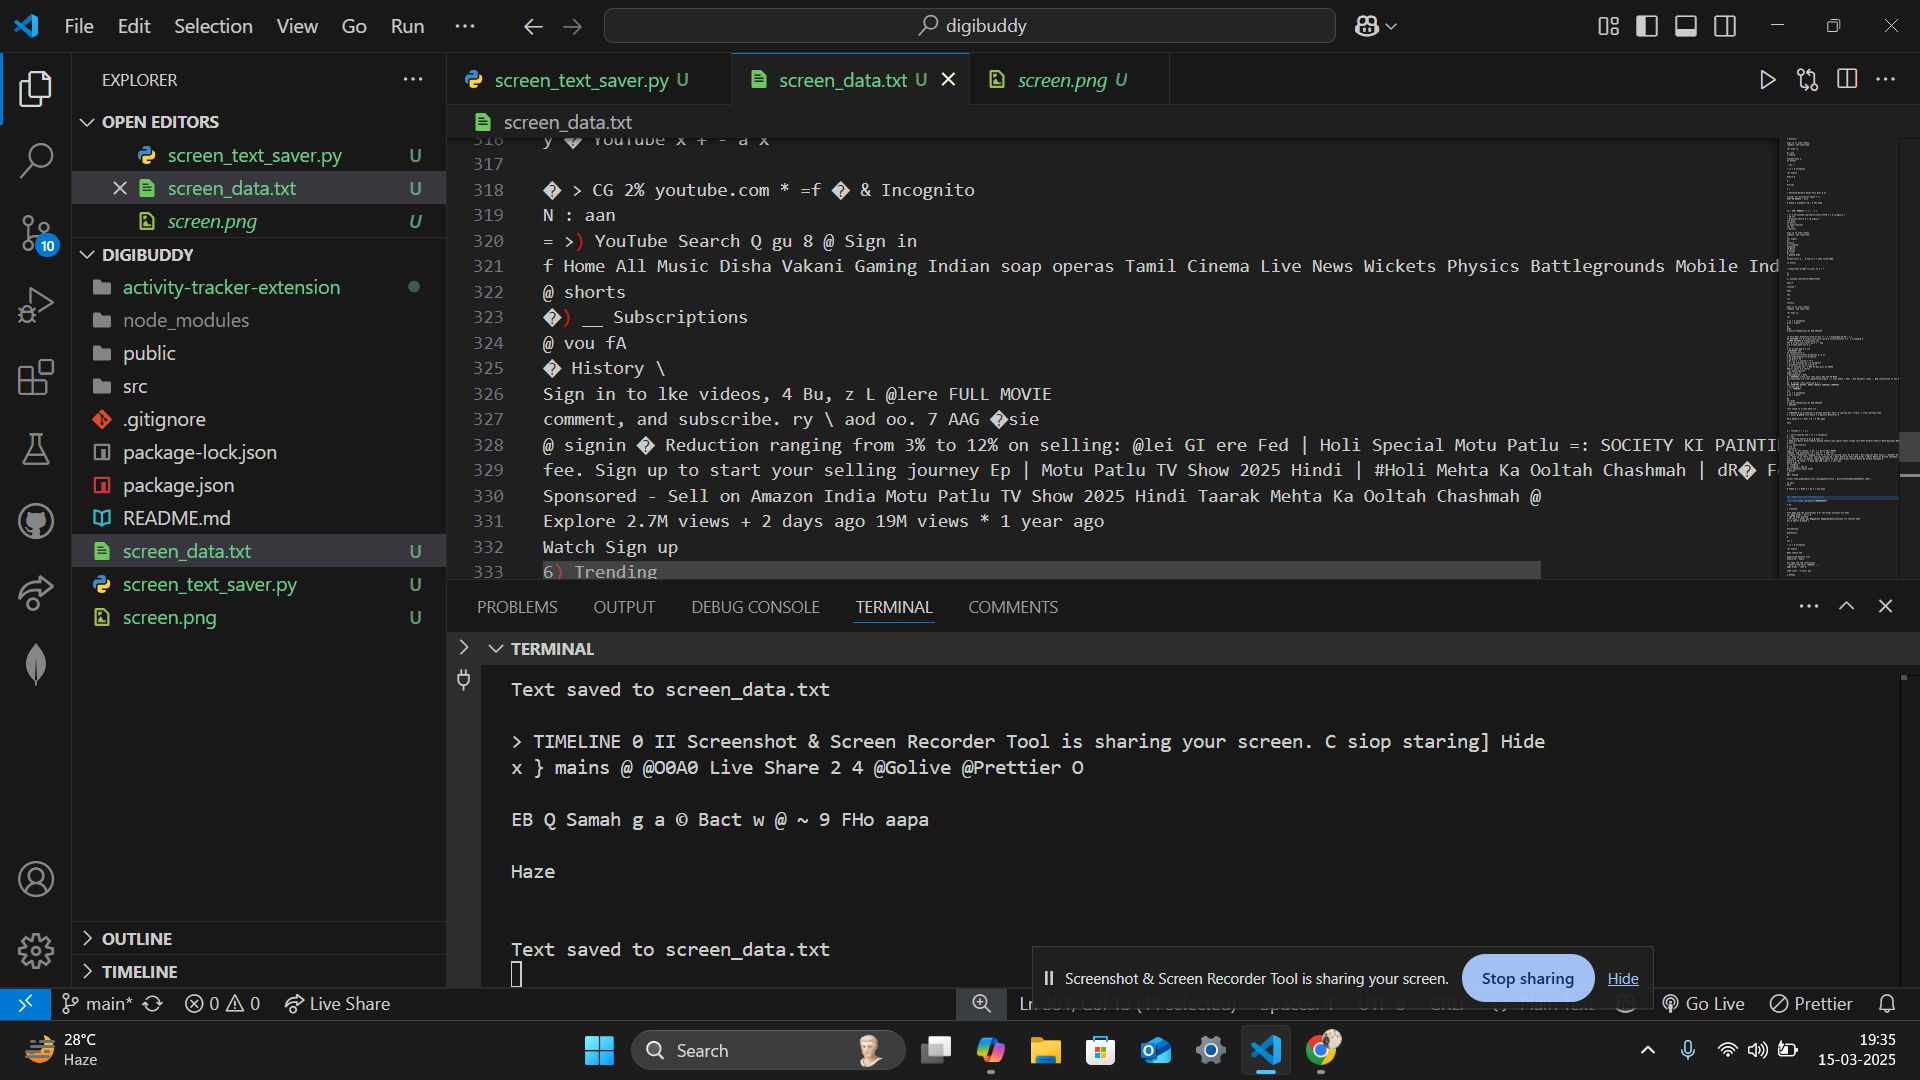
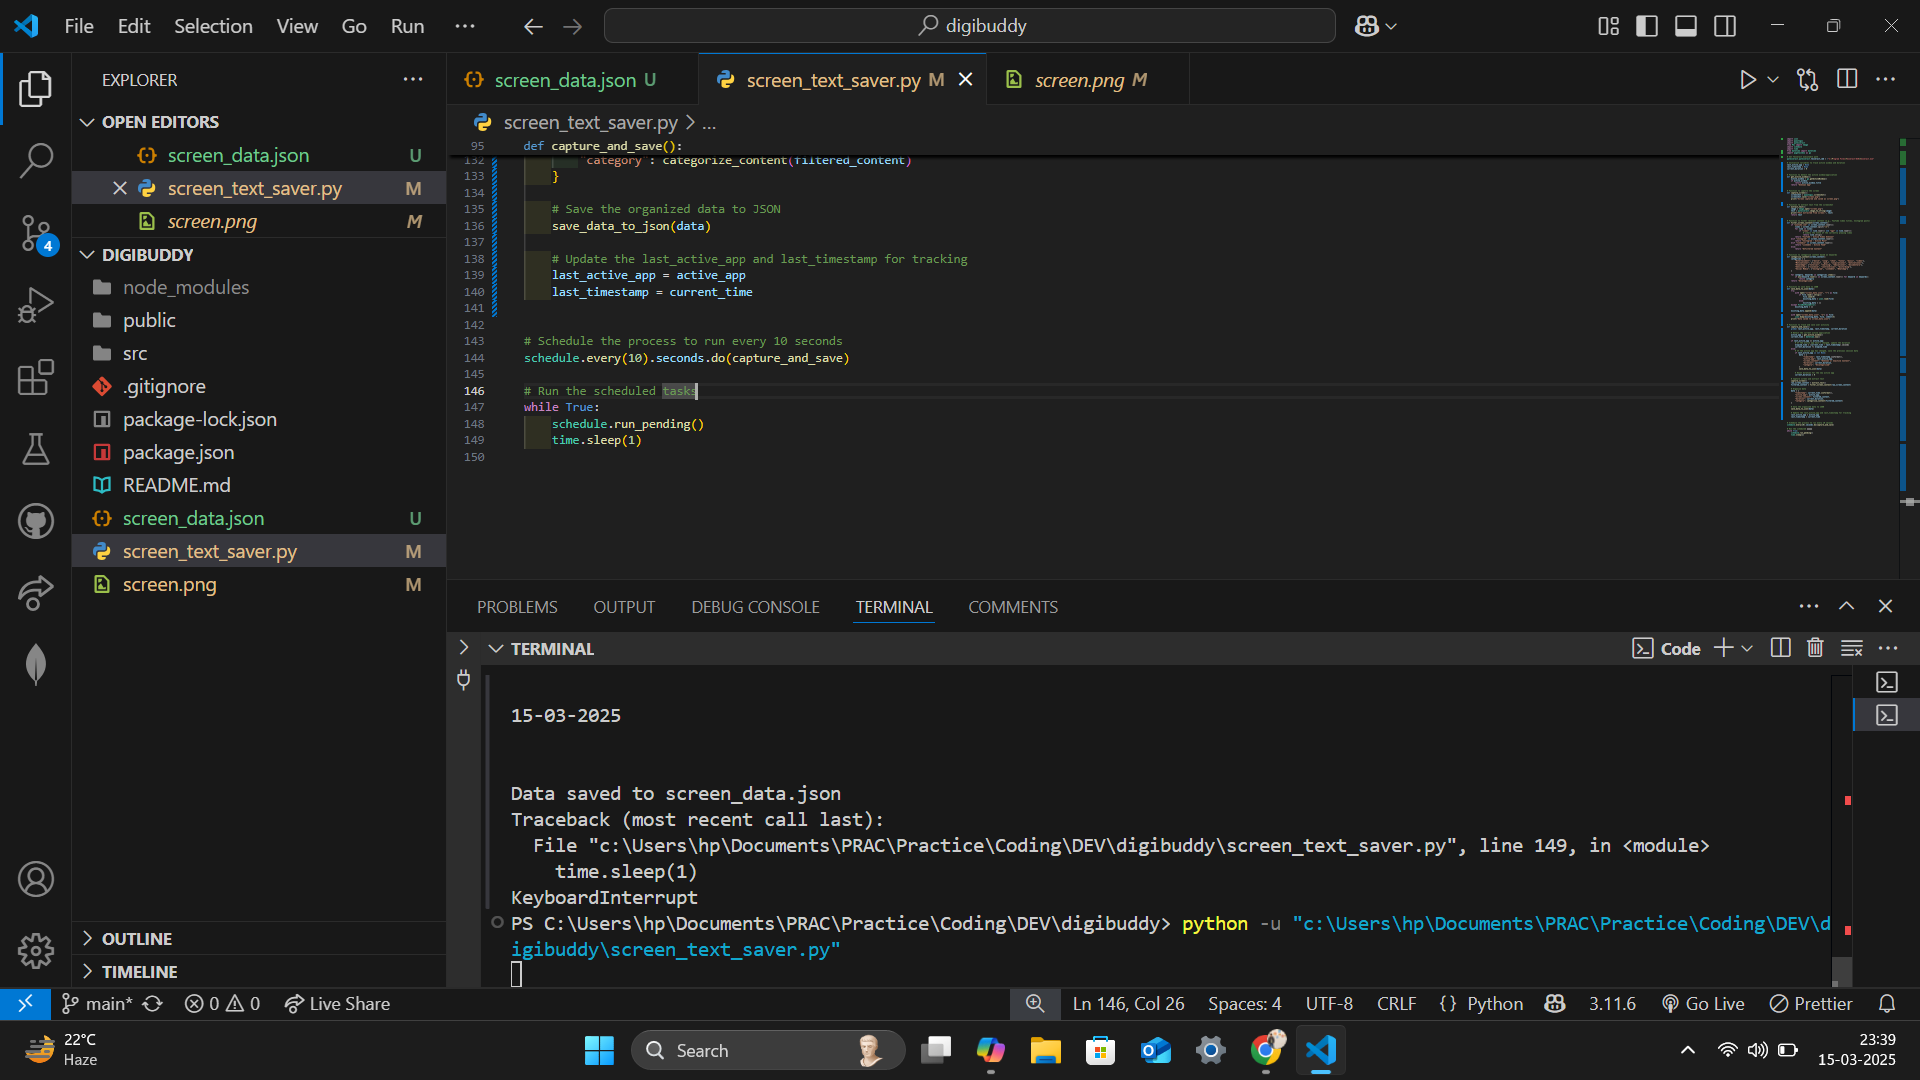
New Logic for Storing Structured Data

diff --git a/screen_text_saver.py b/screen_text_saver.py
@@ -1,36 +1,144 @@
+import json
 import pyautogui
 import pytesseract
 from PIL import Image
 import schedule
 import time
+from datetime import datetime
+import pygetwindow as gw
 
+# Set Tesseract executable path
 pytesseract.pytesseract.tesseract_cmd = r"C:\Program Files\Tesseract-OCR\tesseract.exe"
 
-# Capture the screen
+# Initialize variables to track active window and duration
+last_active_app = None
+last_timestamp = None
+current_duration = 0
+
+
+# Function to detect the active window/application
+def get_active_window():
+    active_window = gw.getActiveWindow()
+    if active_window:
+        return active_window.title
+    return "Unknown App"
+
+
+# Function to capture the screen
 def capture_screen():
     screenshot = pyautogui.screenshot()
     screenshot.save("screen.png")
     print("Screen captured and saved as screen.png")
 
-# Extract text from the screenshot
+
+# Function to extract text from the screenshot
 def extract_text():
     image = Image.open("screen.png")
     text = pytesseract.image_to_string(image)
     print("Text extracted from screen:", text)
     return text
 
-# Save the extracted text to a file
-def save_text_to_file(text):
-    with open("screen_data.txt", "a") as file:
-        file.write(text + "\n\n")
-    print("Text saved to screen_data.txt")
 
-# Capture screen, extract text, and save to file
+# Function to filter relevant content (e.g., YouTube video titles, Instagram posts)
+def filter_screen_content(screen_content):
+    if "youtube.com" in screen_content.lower():
+        lines = screen_content.split("\n")
+        for line in lines:
+            if "views" in line.lower() and "ago" in line.lower():
+                # Likely the title of the currently playing video
+                return line.strip()
+        return "YouTube - Active Video Unknown"
+    elif "instagram" in screen_content.lower():
+        return "Instagram - Active Post"
+    elif "linkedin" in screen_content.lower():
+        return "LinkedIn - Active Feed"
+    else:
+        return "Unfiltered Content"
+
+
+# Function to categorize content based on keywords
+def categorize_content(screen_content):
+    categories = {
+        "Entertainment": ["movie", "song", "show", "funny", "music", "video"],
+        "Motivational": ["success", "goal", "inspirational", "motivational"],
+        "Knowledge": ["tutorial", "learning", "educational", "documentary"],
+        "Sensitive": ["violence", "controversial", "disturbing"],
+        "Social Media": ["Instagram", "LinkedIn", "WhatsApp"]
+    }
+
+    for category, keywords in categories.items():
+        if any(keyword.lower() in screen_content.lower() for keyword in keywords):
+            return category
+    return "Uncategorized"
+
+
+# Function to save data to JSON
+def save_data_to_json(data):
+    try:
+        with open("screen_data.json", "r") as file:
+            if file.read().strip():
+                file.seek(0)
+                existing_data = json.load(file)
+            else:
+                existing_data = []
+    except FileNotFoundError:
+        existing_data = []
+
+    existing_data.append(data)
+
+    with open("screen_data.json", "w") as file:
+        json.dump(existing_data, file, indent=4)
+    print("Data saved to screen_data.json")
+
+
+# Function to track and save user activity
 def capture_and_save():
-    print("Capturing screen and saving text...")
+    global last_active_app, last_timestamp, current_duration
+
+    # Detect the current active application
+    active_app = get_active_window()
+    current_time = datetime.now()
+
+    if last_active_app == active_app:
+        # If the active app hasn't changed, update the duration
+        elapsed_time = (current_time - last_timestamp).seconds
+        current_duration += elapsed_time
+    else:
+        # If the active app has changed, save the previous session data
+        if last_active_app is not None:
+            data = {
+                "timestamp": last_timestamp.isoformat(),
+                "active_app": last_active_app,
+                "screen_content": "Unknown or Inactive Content",
+                "duration": current_duration,
+                "category": "Uncategorized"
+            }
+            save_data_to_json(data)
+
+        # Reset duration for the new active app
+        current_duration = 0
+
+    # Capture screen and extract text
     capture_screen()
-    text = extract_text()
-    save_text_to_file(text)
+    raw_screen_content = extract_text()
+    filtered_content = filter_screen_content(raw_screen_content)
+
+    # Organize data
+    data = {
+        "timestamp": current_time.isoformat(),
+        "active_app": active_app,
+        "screen_content": filtered_content,
+        "duration": current_duration,
+        "category": categorize_content(filtered_content)
+    }
+
+    # Save the organized data to JSON
+    save_data_to_json(data)
+
+    # Update the last_active_app and last_timestamp for tracking
+    last_active_app = active_app
+    last_timestamp = current_time
+
 
 # Schedule the process to run every 10 seconds
 schedule.every(10).seconds.do(capture_and_save)
